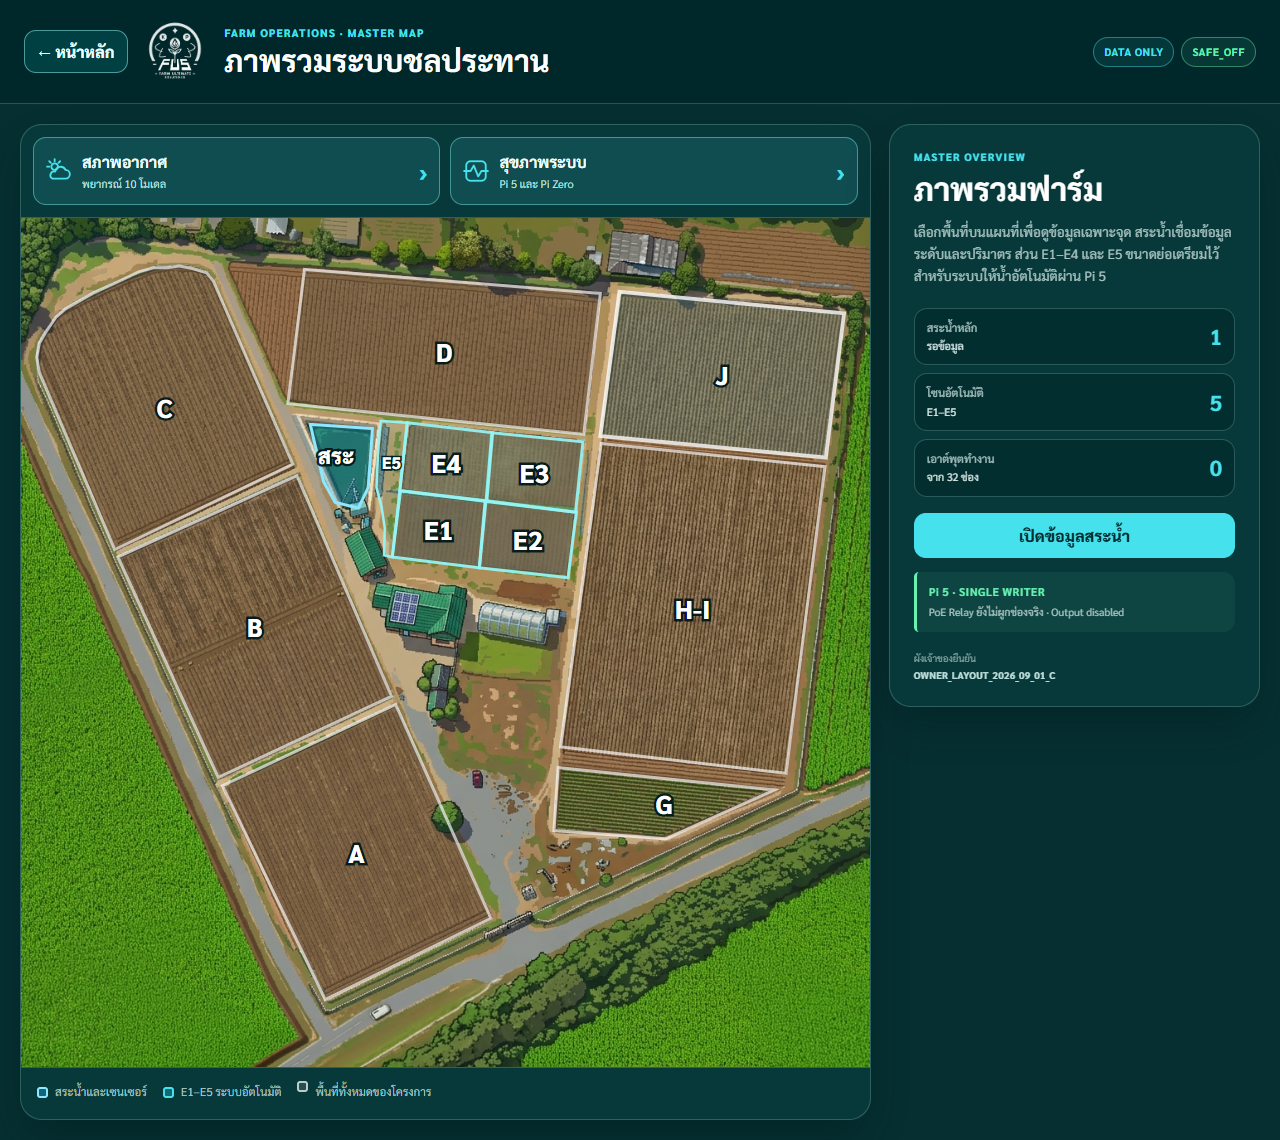
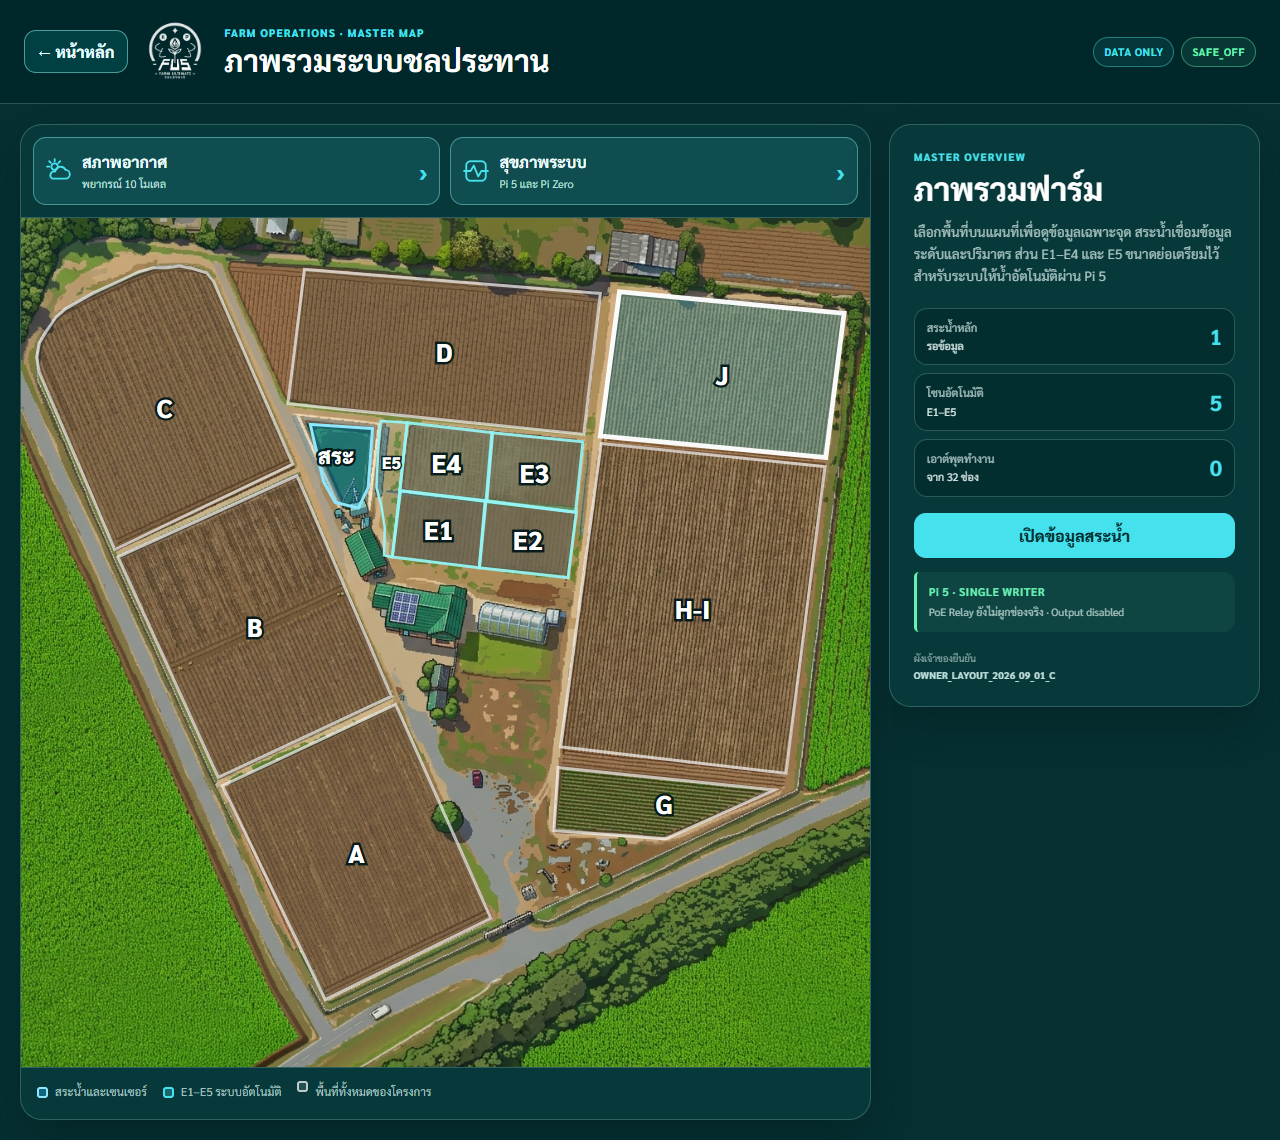
docs: record separate monitor page release verification

Changed region(s): [[0.4688, 0.2456, 0.6875, 0.3991]]

diff --git a/COLLAB_STATUS.md b/COLLAB_STATUS.md
@@ -2,7 +2,8 @@
 
 ## Active task: OWNER-MONITOR-001
 
-- Owner follow-up (2026-09-06): SUCHA is refining the same task/PR #7. Writable UI scope: `js/farm-map.js`, `js/sensors.js`, `css/style.css`, related QA evidence, `docs/OWNER_MONITOR.md` and this status file. Separate **สภาพอากาศ** and **สุขภาพระบบ** buttons now sit above the plot map, open separate pages, and keep the map's pond view focused on water. Existing auth, data feeds, Worker logic/config, device services and Commerce are outside this follow-up. Status: `UI_VALIDATED`; desktop/mobile navigation and visual checks pass, 99 tests and relay validation pass. Publication readback will be recorded after the release.
+- Owner follow-up (2026-09-06): SUCHA refined the same task/PR #7. Writable UI scope: `js/farm-map.js`, `js/sensors.js`, `css/style.css`, related QA evidence, `docs/OWNER_MONITOR.md` and this status file. Separate **สภาพอากาศ** and **สุขภาพระบบ** buttons now sit above the plot map, open separate pages, and keep the map's pond view focused on water. Existing auth, data feeds, Worker logic/config, device services and Commerce were outside this follow-up. Status: `UI_DEPLOYED / LIVE_READBACK_VERIFIED`; desktop/mobile navigation and visual checks pass, 99 tests and relay validation pass.
+- Current frontend release `21ea1096b2a768198ae99ee4409dea55a1929c11`, version `0cf534c7-1323-4819-b957-e5ab7c238834`, independently verified at 11:13 Bangkok. Build and four asset hashes match; the existing public forecast returns 10 models and the API backend version is unchanged. Live QA verifies two buttons above the map, separate pages, the return path and a water-only pond view. Rollback frontend version: `338de5f6-591e-4bd6-a448-0ebd259414bb`. Evidence: `qa/owner-monitor/map-navigation-readback.json` and `*-map-navigation.png`.
 - Owner SUCHA; branch `pick/owner-health-weather-v1`; integration source `origin/develop@40721b5`, existing owner release checkpoint `2b4658a` (PRs #5 and #6 dependencies).
 - Request: publish the existing Pi 5/Pi Zero health dashboard and existing 10-model forecast on the same owner main website, with ongoing refresh.
 - Scope lock: monitor-only Worker modules and new snapshot table, owner frontend Worker/config, `js/sensors.js`, sensor login-return hook in `js/auth.js`, dashboard navigation in `js/farm-map.js`, `js/runtime-config.js`, `css/style.css`, related tests, scripts/owner-monitor publisher/install/uninstall and their scoped LF attributes, forecast snapshot, QA evidence, docs and status.
@@ -10,7 +11,7 @@
 - Acceptance: owner-authorized health reads, sanitized projection only, bounded payloads and polling, stale state based on observation timestamps, verified real health/forecast delivery, desktop/mobile QA, full checks, independent cloud readback and rollback/uninstall path.
 - `DATA_ONLY / SAFE_OFF / NO_HARDWARE_CONTROL`; no inbound Pi listener or firewall change, actuator command, reboot, existing-record alteration or protected-branch merge.
 - Status: `DEPLOYED / REAL_DATA_READBACK_VERIFIED` on 2026-09-06; 99 tests and relay 9 messages pass; desktop/mobile UI QA, binding type generation and Wrangler dry-run pass.
-- Frontend release commit `27376a5284c6c0a4fb7e758ac684dd0928d22da9`, Worker version `338de5f6-591e-4bd6-a448-0ebd259414bb`; build metadata and five changed asset hashes match the published release. The API backend remains at `87ab09f5-1da5-43b3-81c1-30c5a858b11f`.
+- Initial dashboard release commit `27376a5284c6c0a4fb7e758ac684dd0928d22da9`, Worker version `338de5f6-591e-4bd6-a448-0ebd259414bb`; its build metadata and five changed asset hashes matched. Superseded by the navigation refinement recorded above. The API backend remains at `87ab09f5-1da5-43b3-81c1-30c5a858b11f`.
 - Installed the isolated Pi health publisher and 60-second timer. At 09:09 Bangkok, manual and automatic publications passed; independent cloud readback found both Pi sources GOOD and fresh, with 673/653 sampled history points. Existing water dashboard and telemetry forwarder remain active. Source rows remain read-only; only SQLite WAL reader coordination files need directory write access.
 - Published the real forecast issue from 08:13 Bangkok: 10 models, forecast-only, no station truth. The new 15-minute Windows forwarding task returned LastTaskResult 0; the existing three-hour collector also remains successful and unchanged. Pi health continues without Windows; new forecast issues depend on the Windows collector and its logged-in scheduled-task context.
 - Live public forecast and signed-out health views passed at 1280 x 720 and 390 x 844, with zero console/script errors and no horizontal overflow. Missing/invalid owner sessions receive 401/403. Health charts after login passed with labeled synthetic fixtures; Pick's real owner-session browser view remains unverified.

diff --git a/docs/OWNER_MONITOR.md b/docs/OWNER_MONITOR.md
@@ -30,7 +30,9 @@ The only database change is an additive table holding at most one health and one
 
 ## Live release evidence — 6 September 2026
 
-Frontend code `27376a5` is live as Worker version `338de5f6-591e-4bd6-a448-0ebd259414bb`. Build metadata and five changed asset hashes match. Later installation fixes change only the host-side publisher, deployment line endings and documentation; they do not change the deployed frontend code.
+Current frontend code `21ea109` is live as Worker version `0cf534c7-1323-4819-b957-e5ab7c238834`. At 11:13 Bangkok, independent build/four-asset hash checks and live desktop/mobile navigation checks passed. Both buttons are above the plot map; weather and health open separate pages, and the pond no longer embeds those panels. The backend version remains unchanged. Evidence: [mobile plot-map navigation](../qa/owner-monitor/mobile-map-navigation.png), [desktop plot-map navigation](../qa/owner-monitor/desktop-map-navigation.png), and [release readback](../qa/owner-monitor/map-navigation-readback.json).
+
+The initial dashboard release `27376a5` / `338de5f6-591e-4bd6-a448-0ebd259414bb` established the real data feeds below. Host publisher fixes are recorded in `4710dbe`; the navigation refinement changes only UI and evidence.
 
 The new snapshot table contains real health and weather publications with output control false. Independent readback at 09:09 Bangkok found both nodes GOOD, observations less than one minute old, and 673/653 sampled history points. The Pi timer successfully published a later snapshot without a manual trigger. The existing water dashboard and telemetry forwarder remain active.
 
@@ -45,4 +47,4 @@ Installation exposed two host-specific issues that are now addressed: Git checko
 - Run `install-weather-task.ps1 -ProjectRoot <existing irrigation project root>` on SUCHA's Windows host. The task reads the existing export and existing SSH target configuration. Safe receipts are logged under project `artifacts/owner-monitor`.
 - Keep the installed script worktree available while the Windows publisher task uses it; reinstall the task with the new script location before retiring that worktree. The current task uses the logged-in owner's Windows context and has no stored password.
 - Disable the new Pi timer/service with `uninstall.sh`; disable only the new Windows task with `uninstall-weather-task.ps1`. These preserve files, logs, source collectors and all stored data.
-- Previous frontend rollback version: `8eb56284-a1af-45f3-855a-043871923279`. Leave the additive snapshot table in place when rolling back the frontend; do not delete or alter existing data.
+- Previous frontend rollback version: `338de5f6-591e-4bd6-a448-0ebd259414bb`. Leave the additive snapshot table in place when rolling back the frontend; do not delete or alter existing data.
